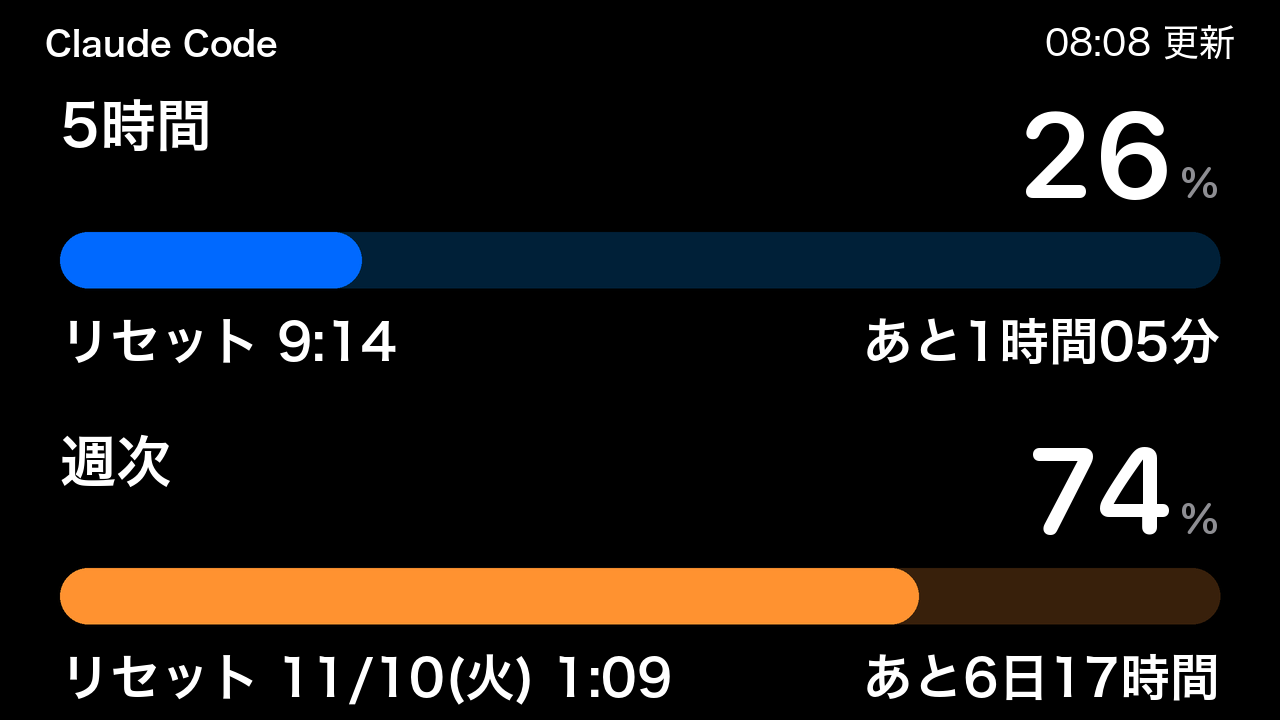
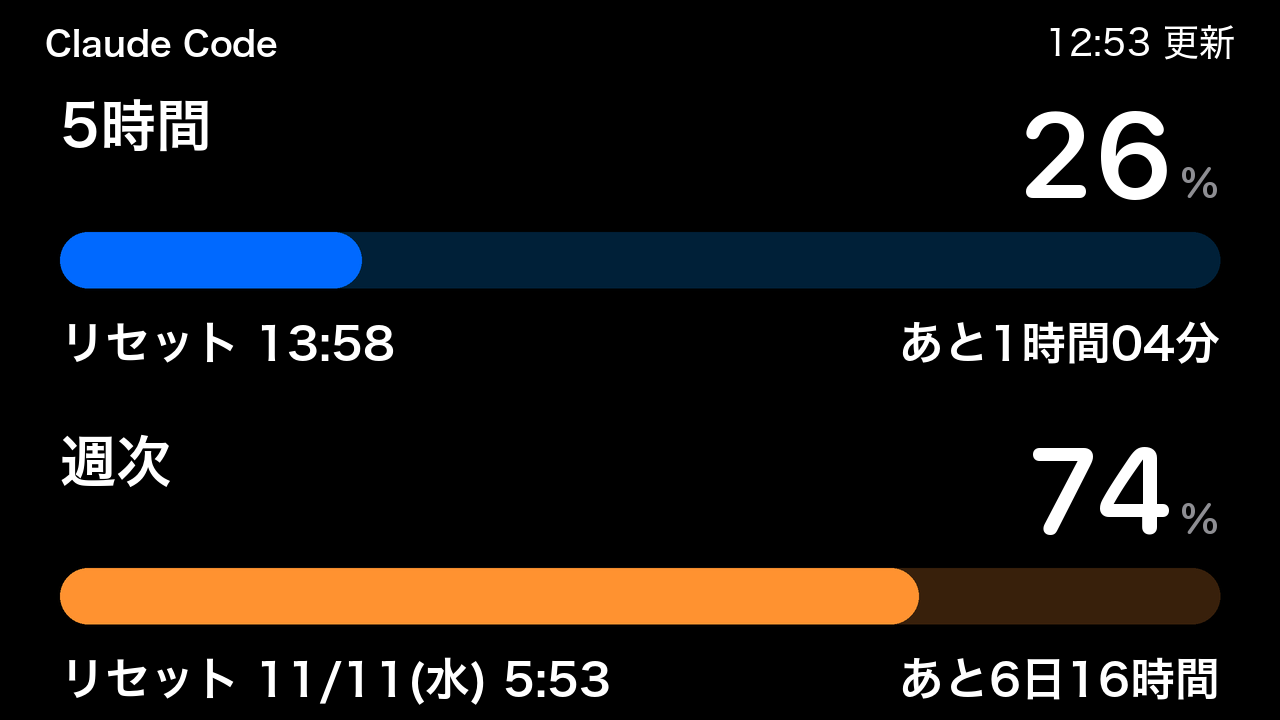
style(pace): 下の行（リセットの記号・日時・残り時間）を少し小さくする
5.2 インチの寸法で 50→45。3.5 インチでは 22→20 px（ユーザーの指示）。

diff --git a/claude_usage_display/pace.py b/claude_usage_display/pace.py
@@ -35,7 +35,7 @@ NUMBER = (122, 120)  # 数字の基準線・大きさ
 UNIT = 44            # 「%」の大きさ
 UNIT_GAP = 4         # 数字と「%」の間
 BAR = (156, 212)     # 棒の上端と下端
-LINE = (284, 50)     # 下の行の基準線・大きさ（収まらなければ LINE_MIN まで縮める）
+LINE = (284, 45)     # 下の行の基準線・大きさ（収まらなければ LINE_MIN まで縮める。2026-11-04、ユーザーの指示「少しだけ小さく」で 50→45。3.5 インチで 22→20 px）
 LINE_MIN = 36
 LINE_GAP = 32        # 下の行の、リセットと残り時間の間に残す幅
 RESET_MARK = 1.0     # リセットの記号の一辺（下の行の字の大きさに対する比）

diff --git a/docs/handover.md b/docs/handover.md
@@ -532,6 +532,7 @@ scripts/uninstall-launch-agent.sh                                 # 自動起動
 - **入れたこと**: `gauge.load_icons` が `reset.png` も読む。`pace` は、それがあれば「リセット」の文字の代わりに記号を時刻の左に出す（一辺は下の行の字の大きさと同じ、間は 0.3 倍。縦の中心は数字の字の高さの中ほど）。字の大きさを決める幅に記号の分も入れる。「リセット済み」は文字のまま。記号が無ければ、これまでどおり文字。テスト `test_reset_mark_replaces_the_word_when_the_icon_exists`（緑の四角の見本）
 - **実機を見たユーザーが「アイコン見づらい。やっぱり 1 にして」と指示し、1 の `arrow.counterclockwise`（反時計回りの矢印）に替えた**（同日）
 - 画像は `~/Library/Application Support/claude-usage-display/icons/reset.png`（白一色・背景透明）。**リポジトリには入れない**（CLAUDE.md）。書き出し直すときは、上の Swift の方法で `arrow.counterclockwise` を pointSize 160・semibold で描く
+- **下の行（記号・日時・「あと…」）を少し小さくした**（同日、ユーザーの指示「バーの下のリセット関係のテキストサイズを今より少しだけ小さくしたい」）。`pace.LINE` の大きさを 50→45（5.2 インチの寸法）。3.5 インチでは 22→20 px で、週次の日時が長いとき（「11/11(水) 12:49」と「あと6日23時間」）も 20 px のまま縮めずに収まる（計算で確かめた）。5.2 インチでは 45 px。記号の一辺は字の大きさと同じ比なので一緒に小さくなる。いまの値で 22 px と 20 px を並べた見本を見せ、ユーザーが了承した
 
 ### 4-28. 利用枠の API から 5 時間の枠が消えた（2026-11-03 15:47 から）
 
